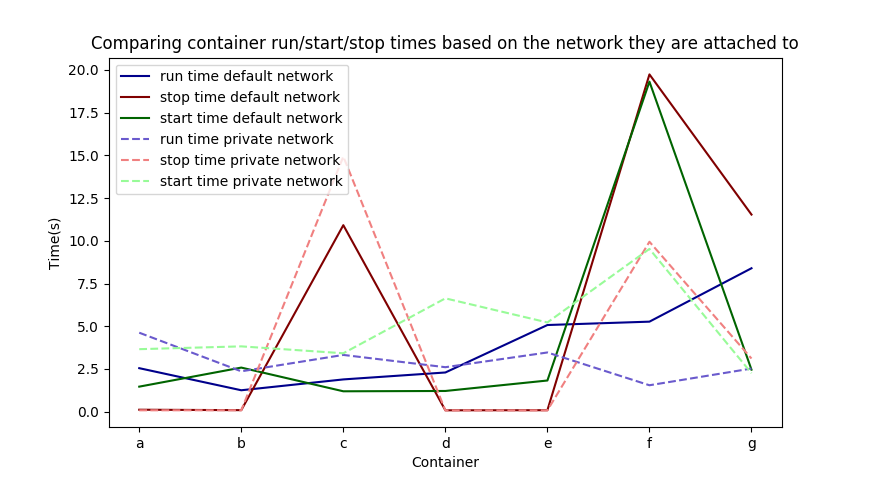
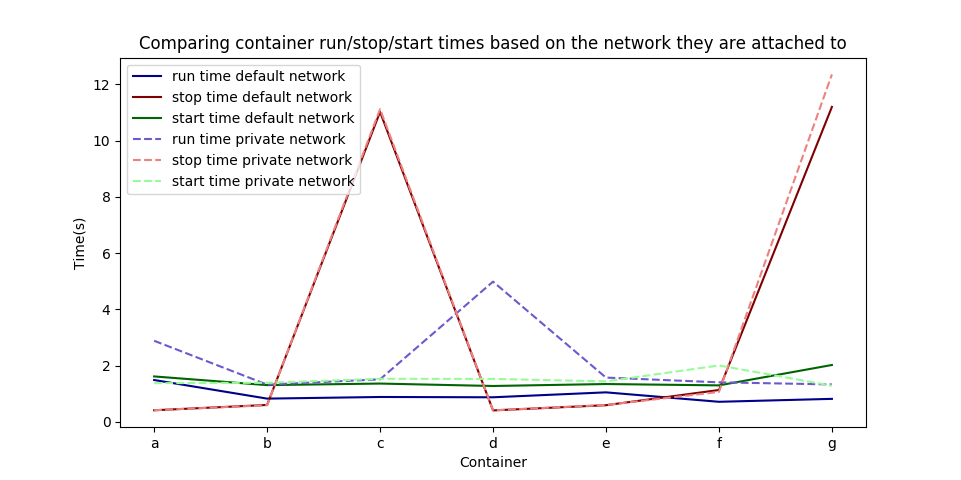
finalizing the test results

diff --git a/test_containers.py b/test_containers.py
@@ -69,7 +69,7 @@ def part1():
     cleanup_containers(containers)
 
 def part2():  
-    #Container.create_private_network('isolated_nw')
+    Container.create_private_network('isolated_nw')
     containers_default = setup_containers(None) # time how long the default network takes
     containers_private = setup_containers('isolated_nw') # time how long the private network takes
 
@@ -77,12 +77,20 @@ def part2():
     Container.inspect_network('isolated_nw')
 
     # stop and start each container so we can see how long it takes
+    for i in range(5):
+      print 'Calculating for the ', i, 'th time'
+      for container in containers_default:
+          container.stop()
+          container.start()
+      for container in containers_private:
+          container.stop()
+          container.start()
+
+    # average the results
     for container in containers_default:
-        container.stop()
-        container.start()
+      container.calculate_averages()
     for container in containers_private:
-        container.stop()
-        container.start()
+      container.calculate_averages()
 
     run_times = np.array([])
     stop_times = np.array([])
@@ -93,13 +101,13 @@ def part2():
 
     # put all the times in lists so we can plot them
     for container in containers_default:
-        run_times = np.append(run_times, [container.run_time])
-        stop_times = np.append(stop_times, [container.stop_time])
-        start_times = np.append(start_times, [container.start_time])
+        run_times = np.append(run_times, [container.run_time_average])
+        stop_times = np.append(stop_times, [container.stop_time_average])
+        start_times = np.append(start_times, [container.start_time_average])
     for container in containers_private:
-        run_times_private = np.append(run_times_private, [container.run_time])
-        stop_times_private = np.append(stop_times_private, [container.stop_time])
-        start_times_private = np.append(start_times_private, [container.start_time])
+        run_times_private = np.append(run_times_private, [container.run_time_average])
+        stop_times_private = np.append(stop_times_private, [container.stop_time_average])
+        start_times_private = np.append(start_times_private, [container.start_time_average])
     
     # plot using matplotlib
     plt.plot(run_times, color='darkblue', label='run time default network')
@@ -113,16 +121,17 @@ def part2():
     plt.ylabel('Time(s)')
     plt.xlabel('Container')
     plt.xticks([0,1,2,3,4,5,6], ['a','b','c','d','e','f','g'])
-    plt.title('Comparing container run/start/stop times based on the network they are attached to')
+    plt.title('Comparing container run/stop/start times based on the network they are attached to')
     plt.show()
 
     cleanup_containers(containers_default)
     cleanup_containers(containers_private)
+    Container.remove_network('isolated_nw')
 
 def main():
 
     # Part 1. Testing what docker containers can be 'revived' through starting them after they are stopped
-    # part1()
+    part1()
 
     # Part 2. Testing the trade off between security and time for the docker networking options
     part2()

diff --git a/Container.py b/Container.py
@@ -1,4 +1,5 @@
 import subprocess, time
+import numpy as np
 
 def call_subp(cmd):
 	print 'Calling: ', cmd
@@ -14,9 +15,12 @@ class Container:
 	service = None
 	program = None
 	network = None
-	run_time = None
-	start_time = None
-	stop_time = None
+	run_time_average = None
+	start_time_average = None
+	stop_time_average = None
+	run_times = np.array([])
+	start_times = np.array([])
+	stop_times = np.array([])
 
 	def __init__(self, name, service, program, network_name):
 		self.name = name
@@ -43,20 +47,29 @@ class Container:
 
 		start = time.time()
 		call_subp(cmd)
-		self.run_time = time.time() - start
+		self.run_times = np.append(self.run_times, [time.time() - start])
 
 
 	def stop(self):
 		cmd = ['sudo', 'docker', 'stop', self.name]
 		start = time.time()
 		call_subp(cmd)
-		self.stop_time = time.time() - start
+		self.stop_times = np.append(self.stop_times, [time.time() - start])
 
 	def start(self):
 		cmd = ['sudo', 'docker', 'start', self.name]
 		start = time.time()
 		call_subp(cmd)
-		self.start_time = time.time() - start
+		self.start_times = np.append(self.start_times, [time.time() - start])
+
+	def calculate_averages(self):
+		print 'Averaging...'
+		self.run_time_average = np.average(self.run_times)
+		self.start_time_average = np.average(self.start_times)
+		self.stop_time_average = np.average(self.stop_times)
+		print str(self.run_times), ':average:', self.run_time_average
+		print str(self.start_times), ':average:', self.start_time_average
+		print str(self.stop_times), ':average:', self.stop_time_average
 
 	def remove(self):
 		cmd = ['sudo', 'docker', 'rm', self.name]
@@ -81,6 +94,11 @@ class Container:
 		if network_name is None:
 			network_name = 'bridge' # default network name
 		cmd = ['sudo', 'docker', 'network', 'inspect', network_name]
+		call_subp(cmd)
+
+	@staticmethod
+	def remove_network(network_name):
+		cmd = ['sudo', 'docker', 'network', 'rm', network_name]
 		call_subp(cmd)
 		
 		

diff --git a/ReadMe.md b/ReadMe.md
@@ -112,23 +112,8 @@ Attach containers to the default bridge and to a user defined bridge and measure
 
 ![The comparison of times.](images/chart.png)
 
-| Image       | Options       | Program   | Network | Run Time (s) | Start Time (s) | Stop Time (s) |
-| ----------- | ------------- | --------- | ------- | -------- | --------- | --------- |
-| alpine      | None          | None      | Default | 9.75 | 4.15 | 0.40 |
-| alpine      | None          | None      | Private | 3.68 | 3.84 | 0.20 |
-| alpine      | --detach      | None      | Default | 1.52 | 3.07 | 0.12 |
-| alpine      | --detach      | None      | Private | 1.93 | 4.41 | 0.17 |
-| alpine      | --detach, -t  | None      | Default | 1.88 | 8.28 | 12.31 |
-| alpine      | --detach, -t  | None      | Private | 2.84 | 6.57 | 13.61 |
-| centos      | --detach      | /bin/bash | Default | 1.96 | 2.55 | 0.15 |
-| centos      | --detach      | /bin/bash | Private | 5.62 | 1.98 | 0.09 |
-| hello-world | None          | None      | Default | 3.14 | 2.90 | 0.66 |
-| hello-world | None          | None      | Private | 5.30 | 3.15 | 0.44 |
-| nginx       | --detach      | None      | Default | 1.90 | 10.81 | 11.05 |
-| nginx       | --detach      | None      | Private | 3.45 | 2.66 | 2.33 |
-| splunk      | --detach, -e  | None      | Default | 3.24 | 5.36 | 16.96 |
-| splunk      | --detach, -e  | None      | Private | 2.85 | 3.49 | 13.14 |
+This was run 5 times then averaged.
 
 ### Conclusion
 
-Overall it seems like there is not much overhead with running things in their own network. However, more testing would need to be done to see if there is overhead within the container itself (aka handling requests, talking to other containers).
+As we can see, the only major difference is that some of the containers take about 5 seconds longer to start. Overall it seems like there is not much overhead with running things in their own network. However, more testing would need to be done to see if there is overhead within the container itself (aka handling requests, talking to other containers).
